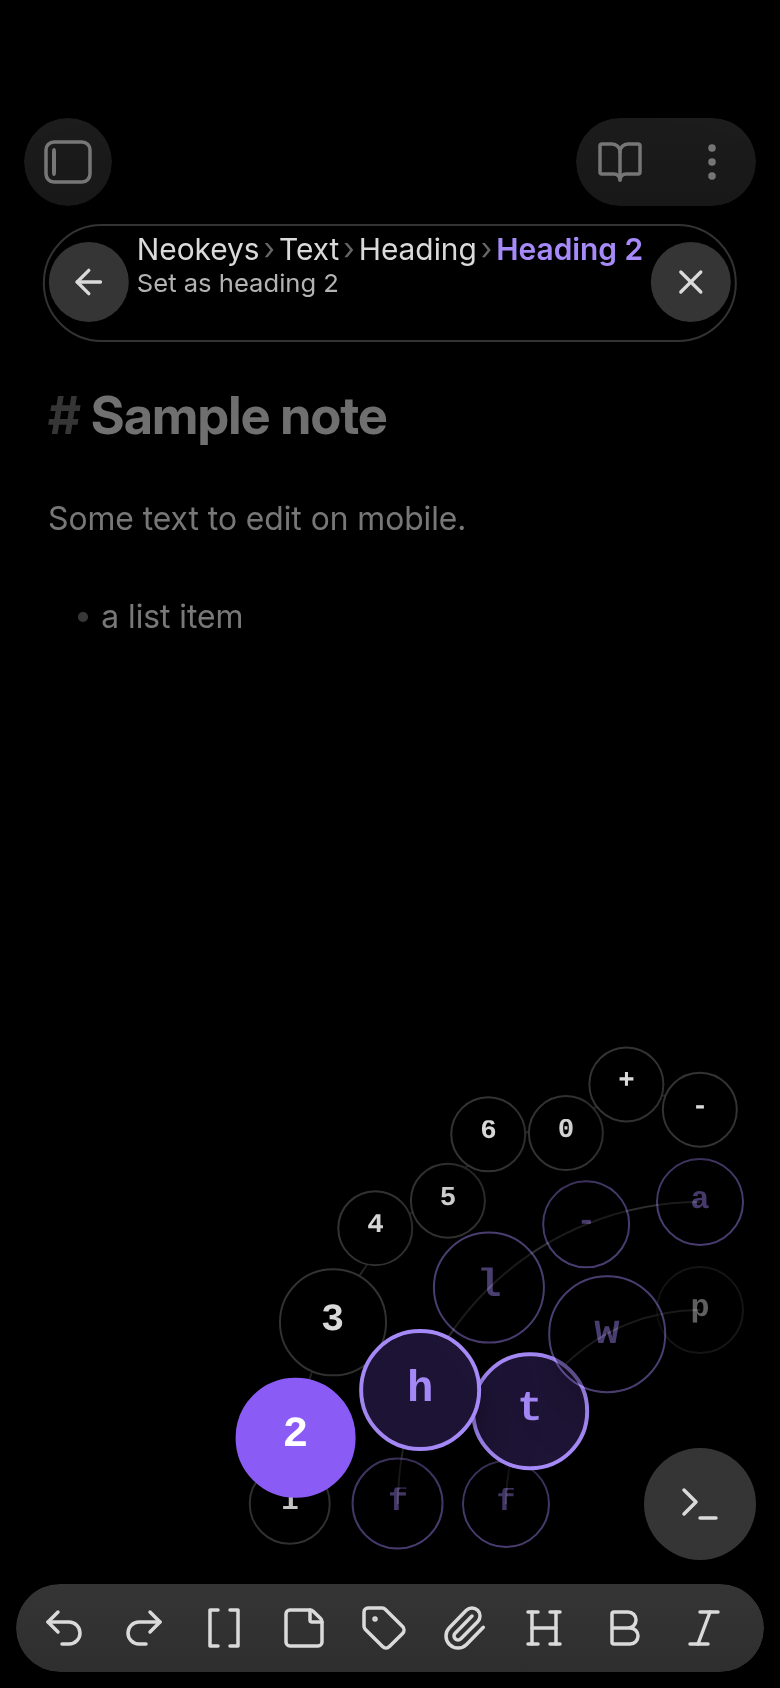
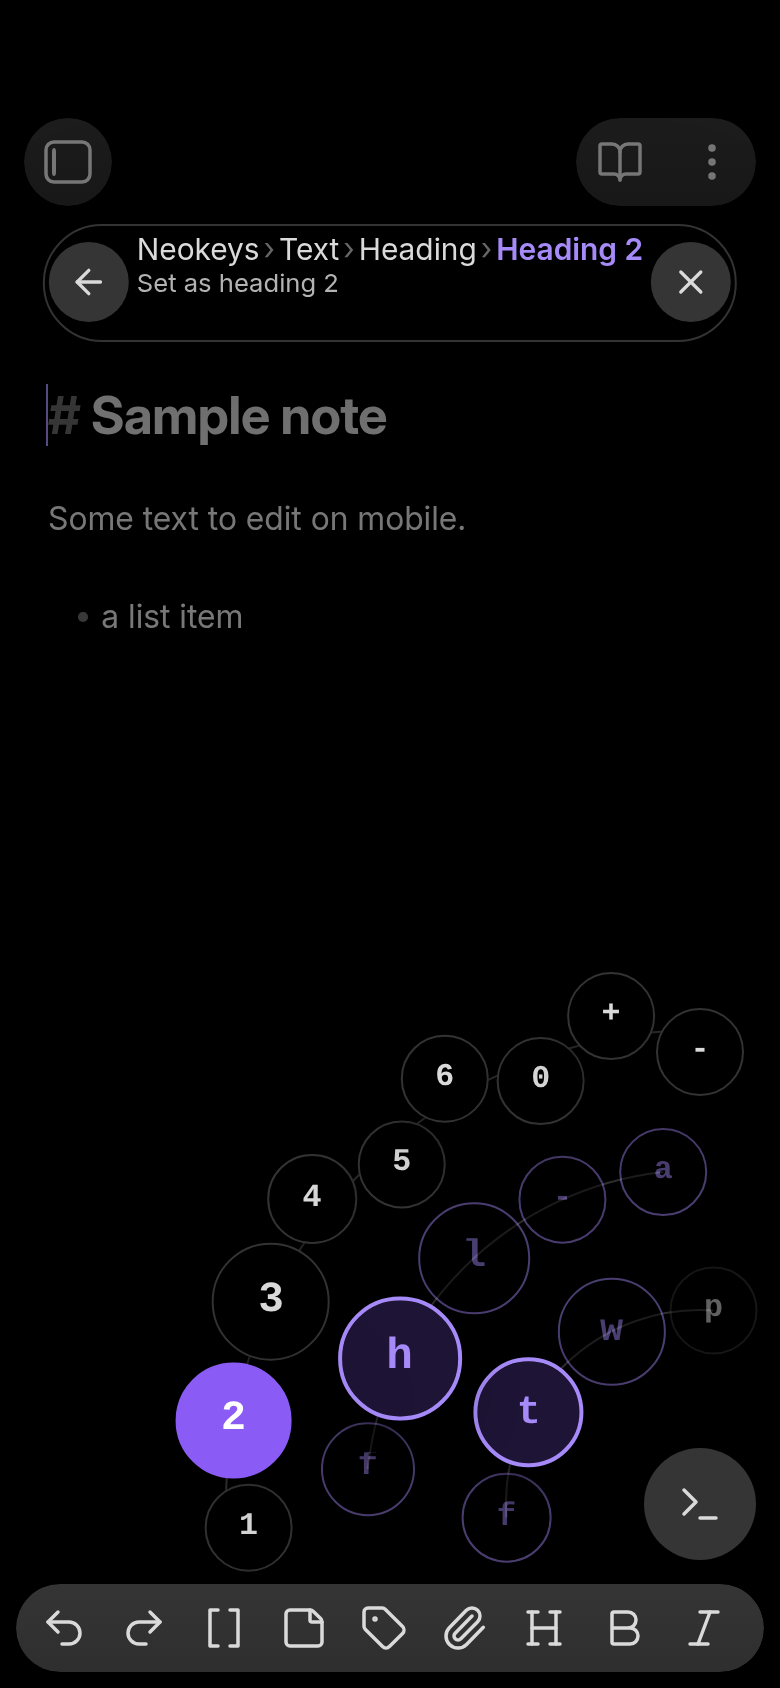
Dial: README, lens setting text and README screenshots for the wider rings and the no-overlap rule

diff --git a/src/settings.ts b/src/settings.ts
@@ -43,7 +43,7 @@ const MOBILE_DIAL_RADIUS_NAME = "Dial ring radius";
 const MOBILE_DIAL_RADIUS_DESC =
 	"Fixed keeps every ring at the same radius whatever it holds, shrinking a level's circles to fit it; Fit grows each ring until its level fits at full size, as far as the screen allows.";
 const MOBILE_DIAL_LENS_NAME = "Dial lens";
-const MOBILE_DIAL_LENS_DESC = `How much the circle under your thumb, and its neighbours, grow as you pass over them, as a multiple of the item size (${MIN_LENS_PEAK} to ${MAX_LENS_PEAK}, ${DEFAULT_LENS_PEAK} by default). At ${MIN_LENS_PEAK} only shrunk circles grow, back to full size.`;
+const MOBILE_DIAL_LENS_DESC = `How much the circle under your thumb, and its neighbours, grow as you pass over them, as a multiple of the item size (${MIN_LENS_PEAK} to ${MAX_LENS_PEAK}, ${DEFAULT_LENS_PEAK} by default). At ${MIN_LENS_PEAK} only shrunk circles grow, back to full size. Above about 1.15 the rings sit farther apart, so a grown circle never reaches the next ring.`;
 const MOBILE_DIAL_RING_ANIMATION_NAME = "Dial ring animation";
 const MOBILE_DIAL_RING_ANIMATION_DESC =
 	"Animate a ring as it opens. Off when Animations is off, and always off when your OS's reduced-motion accessibility preference is on, regardless of this toggle.";

diff --git a/README.md b/README.md
@@ -202,17 +202,19 @@ is open closes the deepest ring (or the dial, at the root), the way <kbd>Backspa
 the keyboard popup. The note dims behind the open dial; a tap on that dimmed area closes it without
 running anything.
 
-The rings are always in the same places: the first where four circles fit, each next ring one
-circle farther out, so the hand learns where each level is. A level with more items than its ring
-holds spreads them evenly over the ring as smaller circles, down to 14px beads, which step in and
-out of the ring where even that would not keep them apart; nothing is ever paged or hidden. The
-circle under your thumb grows, up to one and a half times the circle size by default, its
-neighbours a little less, and the gaps beside them open just enough: a **lens** that follows the
-thumb along every ring, so a crowded ring reads as you pass over it and the grown circle doubles as
-the highlight. On a ring that fits, the circles beside the lens move apart by a degree or two; on a
-crowded one the beads give way instead, piling up toward the ends of the arc, and the arc itself
-never leaves its quarter turn. A ring you have left keeps its lens where your thumb left it, so the
-path you took stays large.
+The rings are always in the same places: the first where four circles fit, each next ring far
+enough out that a circle grown by the lens never reaches a circle on the next ring, so the hand
+learns where each level is. A level with more items than its ring holds spreads them evenly over
+the ring as smaller circles, down to 14px beads, which step in and out of the ring, two deep, where
+even that would not keep them apart; nothing is ever paged or hidden. The circle under your thumb
+grows, up to one and a half times the circle size by default, its neighbours a little less: a
+**lens** that follows the thumb along every ring, so a crowded ring reads as you pass over it and
+the grown circle doubles as the highlight. No two circles ever overlap. The lens takes its room
+from the other gaps on the ring, which close up as far as keeps their circles apart; on a crowded
+ring the other beads pile two deep; the arc may run a few degrees past the ends of its quarter
+turn; and only when even that is not enough does the lens grow a little less (the root ring, full
+with four circles, gets most of the lens mid-ring, all of it at its ends). A ring you have left
+keeps its lens where your thumb left it, so the path you took stays large.
 
 A pill just below Obsidian's header names what you are on: the path of open groups, the item under
 your thumb at its end, and on a second line what that item does: a group's description (or its
@@ -232,8 +234,10 @@ on the first tap, since that is harmless, and grows at the same time).
 
 Nothing moves while your finger is down except the lens. The pill picks its place once per
 opening: below the header when the keymap's deepest path fits under it, raised over the header
-when that wins back room (a phone with its keyboard up), with the rings reaching up behind it only
-on a screen too short for anything else. When a group's ring has no room outside the current ones,
+when that wins back room (a phone with its keyboard up). On a screen too short for even the first
+ring under the raised pill the whole dial shrinks instead, smaller circles on a smaller ring (down
+to 28px), so that it fits between the pill and the keyboard; no circle ever hides behind the pill.
+When a group's ring has no room outside the current ones,
 the group stays highlighted, the pill says to let go, and the release redraws the dial from the
 deepest levels that fit; Back brings the outer rings back. On a 390px phone the default keymap's
 deepest path (root, Text, Heading) opens whole on three rings with the keyboard up or down.
